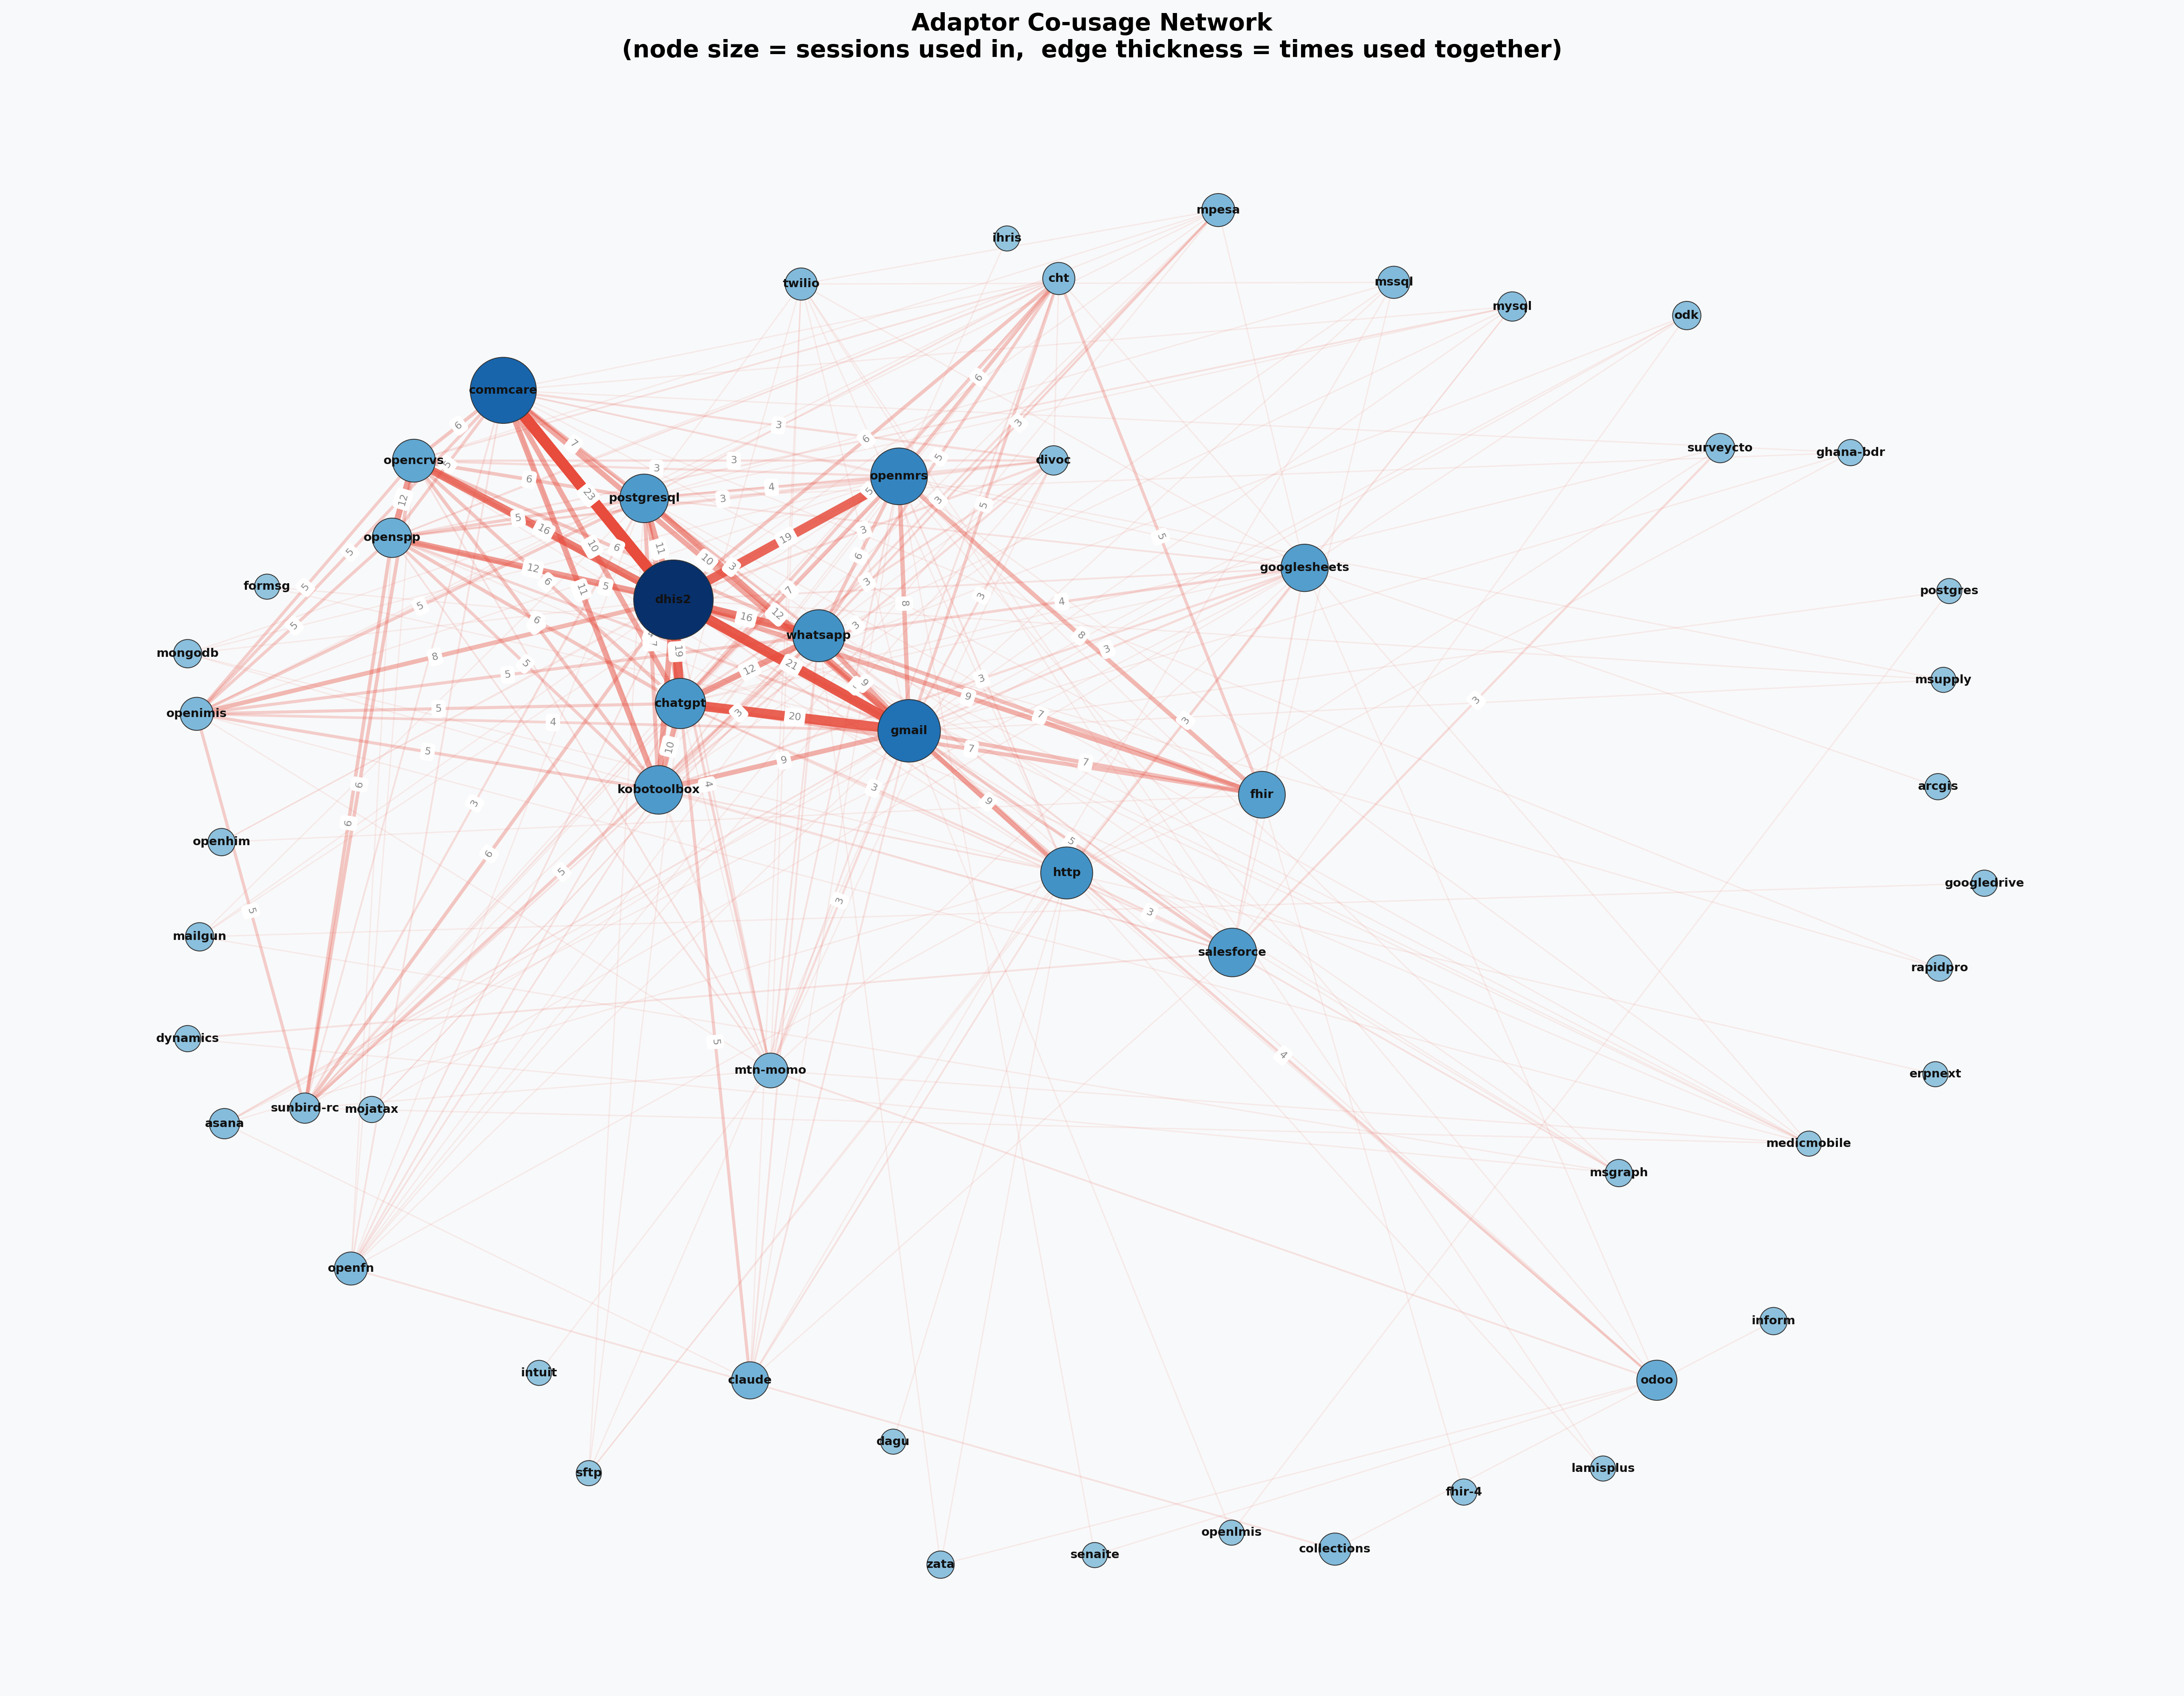
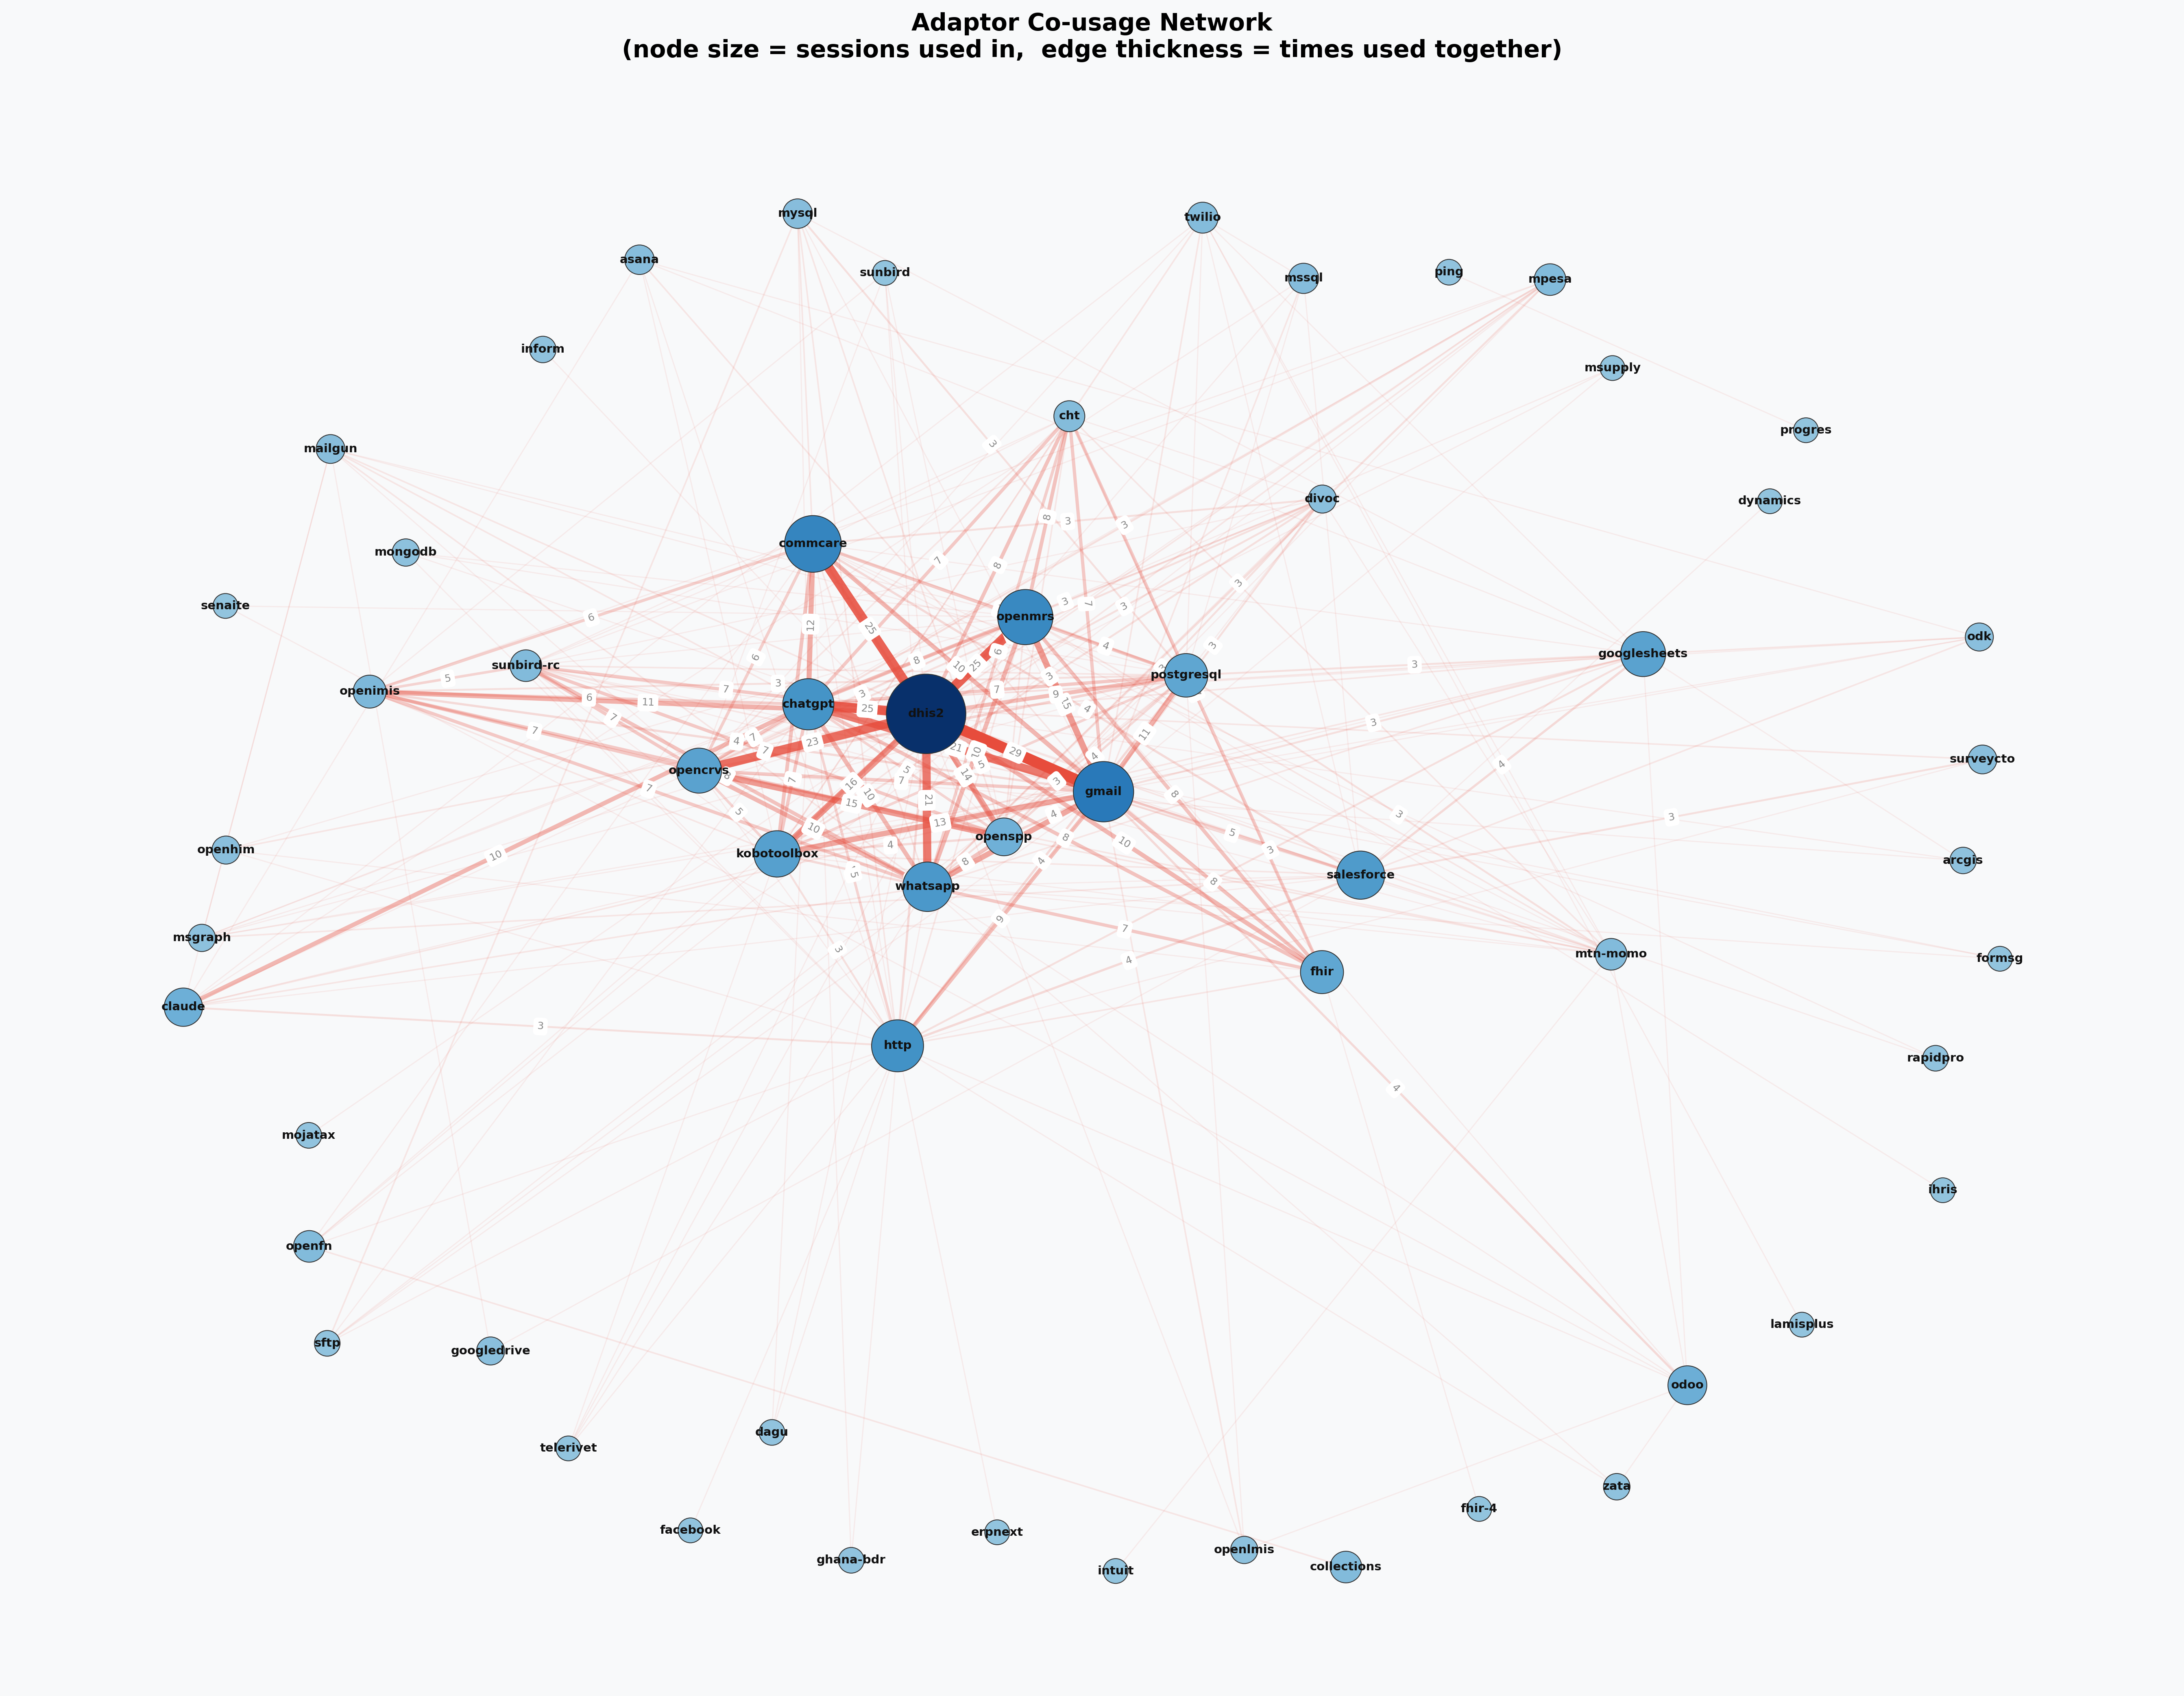
updated readme

diff --git a/response-time-v-sequential-prompts-in-session.py b/response-time-v-sequential-prompts-in-session.py
@@ -1,0 +1,79 @@
+import os
+import numpy as np
+import pandas as pd
+import matplotlib.pyplot as plt
+from collections import defaultdict
+
+SESSION_DIR = r"C:\openfn\assistant-analytics\data\session_parsed"
+OUTPUT_PATH = r"C:\openfn\assistant-analytics\charts\response-time-v-sequential-prompts-in-session.png"
+
+DATE_FORMAT = "%B %d, %Y, %H:%M:%S"
+
+response_times_by_position = defaultdict(list)
+
+for filename in os.listdir(SESSION_DIR):
+    if not filename.endswith(".csv"):
+        continue
+
+
+    filepath = os.path.join(SESSION_DIR, filename)
+    try:
+        df = pd.read_csv(filepath)
+    except Exception:
+        continue
+
+    if "role" not in df.columns or "inserted_at" not in df.columns or "processing_completed_at" not in df.columns:
+        continue
+
+    user_rows = df[df["role"] == "user"].copy()
+
+    user_rows["inserted_at"] = pd.to_datetime(user_rows["inserted_at"], format=DATE_FORMAT, errors="coerce")
+    user_rows["processing_completed_at"] = pd.to_datetime(user_rows["processing_completed_at"], format=DATE_FORMAT, errors="coerce")
+
+    # Drop rows missing either timestamp
+    user_rows = user_rows.dropna(subset=["inserted_at", "processing_completed_at"])
+    user_rows = user_rows.sort_values("inserted_at").reset_index(drop=True)
+
+    for i, row in user_rows.iterrows():
+        duration = (row["processing_completed_at"] - row["inserted_at"]).total_seconds()
+        if duration >= 0:
+            response_times_by_position[i + 1].append(duration)
+
+positions = sorted(response_times_by_position.keys())
+medians = [np.median(response_times_by_position[p]) for p in positions]
+q1s = [np.percentile(response_times_by_position[p], 25) for p in positions]
+q3s = [np.percentile(response_times_by_position[p], 75) for p in positions]
+counts = [len(response_times_by_position[p]) for p in positions]
+
+filtered = [(p, med, q1, q3, c) for p, med, q1, q3, c in zip(positions, medians, q1s, q3s, counts)]
+positions, medians, q1s, q3s, counts = zip(*filtered) if filtered else ([], [], [], [], [])
+
+lower_err = [med - q1 for med, q1 in zip(medians, q1s)]
+upper_err = [q3 - med for med, q3 in zip(medians, q3s)]
+
+fig, ax = plt.subplots(figsize=(12, 6))
+ax.errorbar(positions, medians, yerr=[lower_err, upper_err], marker="o", linewidth=2,
+            color="#2196F3", markersize=5, ecolor="#90CAF9", elinewidth=1.5, capsize=4)
+ax.set_xlabel("Sequential Prompt Number Within Session", fontsize=12)
+ax.set_ylabel("Median Response Time (seconds)", fontsize=12)
+ax.set_title("Median Response Time by Sequential Prompt Position in Session", fontsize=14)
+ax.text(0.99, 0.97, "Error bars show interquartile range (Q1–Q3)", transform=ax.transAxes,
+        fontsize=8, color="gray", ha="right", va="top")
+ax.set_ylim(bottom=0, top=70)
+ax.grid(True, alpha=0.3)
+ax.set_xticks(positions)
+
+clipped_positions = [p for p, q3 in zip(positions, q3s) if q3 > 70]
+
+for p, med, q3, c in zip(positions, medians, q3s, counts):
+    ax.annotate(f"n={c}", (p, med), textcoords="offset points", xytext=(0, 8),
+                ha="center", fontsize=7, color="gray")
+    if q3 > 70:
+        rank = clipped_positions.index(p)
+        y_offset = -14 if rank % 2 == 0 else -26
+        ax.annotate(f"Q3={q3:.0f}s", (p, 70), textcoords="offset points", xytext=(0, y_offset),
+                    ha="center", fontsize=7, color="tomato")
+
+plt.tight_layout()
+plt.savefig(OUTPUT_PATH, dpi=150)
+print(f"Chart saved to {OUTPUT_PATH}")

diff --git a/README.md b/README.md
@@ -75,66 +75,14 @@ If you write a specific adaptor name after the program name when you run it, the
 #### comprehensive_tone_analysis_viz.py
 This makes a bunch of percentage bar graps that display answers to a bunch of different questions about the actual content of the prompts like their tone, writing style, if claude thought that the problem was actually resolved, if the user sounded frustrated, if the session sounded like it was intended for building or debugging etc. These are all subjective questions but it's nice to have some sort of automated insight into them. Take the results for language? with a pinch of salt, it's not easy to confidently identify a language based on short prompts, and there is no dedicated list of supported languages for OpenFN's assistant. Takes *C:\openfn\assistant-analytics\data\anthropic_api_session_parsed_analysis.csv* as the input and outputs to *C:\openfn\assistant-analytics\charts\comprehensive_tone_analysis_viz.py*
 
-
-
-
-
-
-
-
-
-
-
-
-
-
-
-
-
-
-
-
-
-
-
-
-
-
-
-
-
-
-
-
-
-
-
-
-
-
-
-
-
-
-
-
-
-
-
-
-
-
-
-
-
-
 #### response-time-v-adaptor-viz.py
 Potentially a quite interesting one that shows how the average response time varies by adaptor used. Response time is calculated by averaging the difference between input_at and processing_completed_at for all the prompts in a session (ignoring any that are missing one or both of those values, which is a lot), and then averaging that to give the mean response time for each session. Then this script looks at *anthropic_api_session_parsed_analysis.csv* to see which sessions contain both data in the mean_response_time and adaptors_mentioned_in_user_prompt_specifically columns, and produces a bar graph that shows the mean average mean_response_time for each adaptor with interquartile range error bars. I.e it first takes the mean response time within a session, and then takes a mean again between sessions. Outputs *response_time_v_adaptor_viz.png* 
 
 #### session-length-v-adaptor-viz.py
 This is probably less useful, it shows how the length of a chat session varies by the adaptor used. The length of a session is calculated as the difference between the earliest input_at and the latest processing_completed_at time data within each session. Input is *anthropic_api_session_parsed_analysis.csv* and output is *session-length-v-adaptor-viz.png*
 
-
+####response-time-v-sequential-prompts-in-session.py
+This is an interesting one. It calculates the response times of each user prompt within each session, and then looks across all sessions and calculates the median response time for sequential prompts i.e 1st prompt, 2nd prompt, 3rd etc, and then displays that in a line graph with interquartile range error bars. The n= number above each data point is the number of prompts that have that sequential number, e.g. n=1 at 25 on the x axis means there was only one session that had 25 prompts and the y axis value is the response time for that prompt. This is the only program that takes *C:\openfn\assistant-analytics\data\session_parsed* as the input, it looks at the whole folder of those indiviudal session parsed files. It outputs *response-time-v-sequential-prompts-in-session.png*
 
 
 